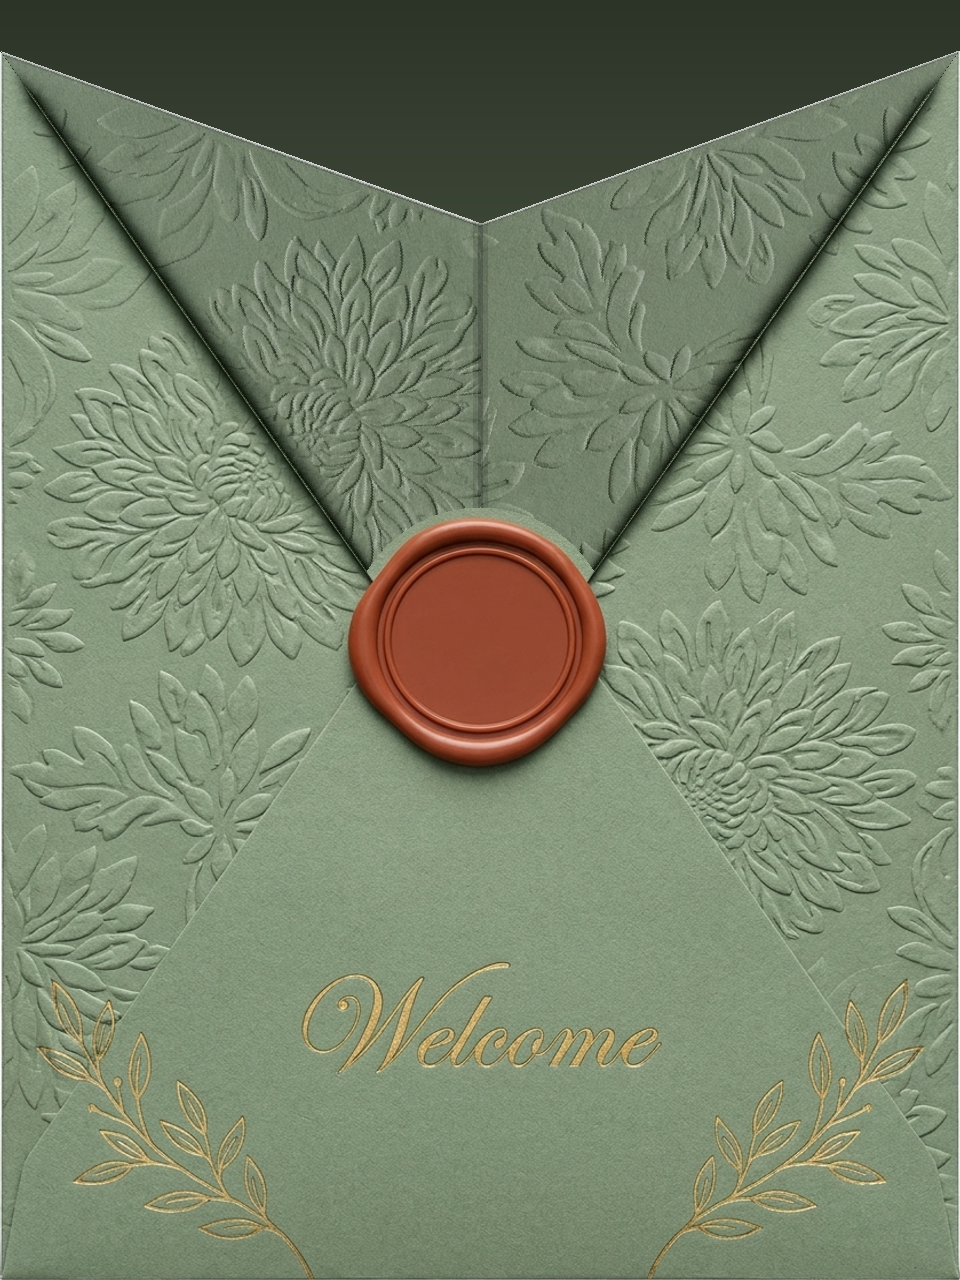
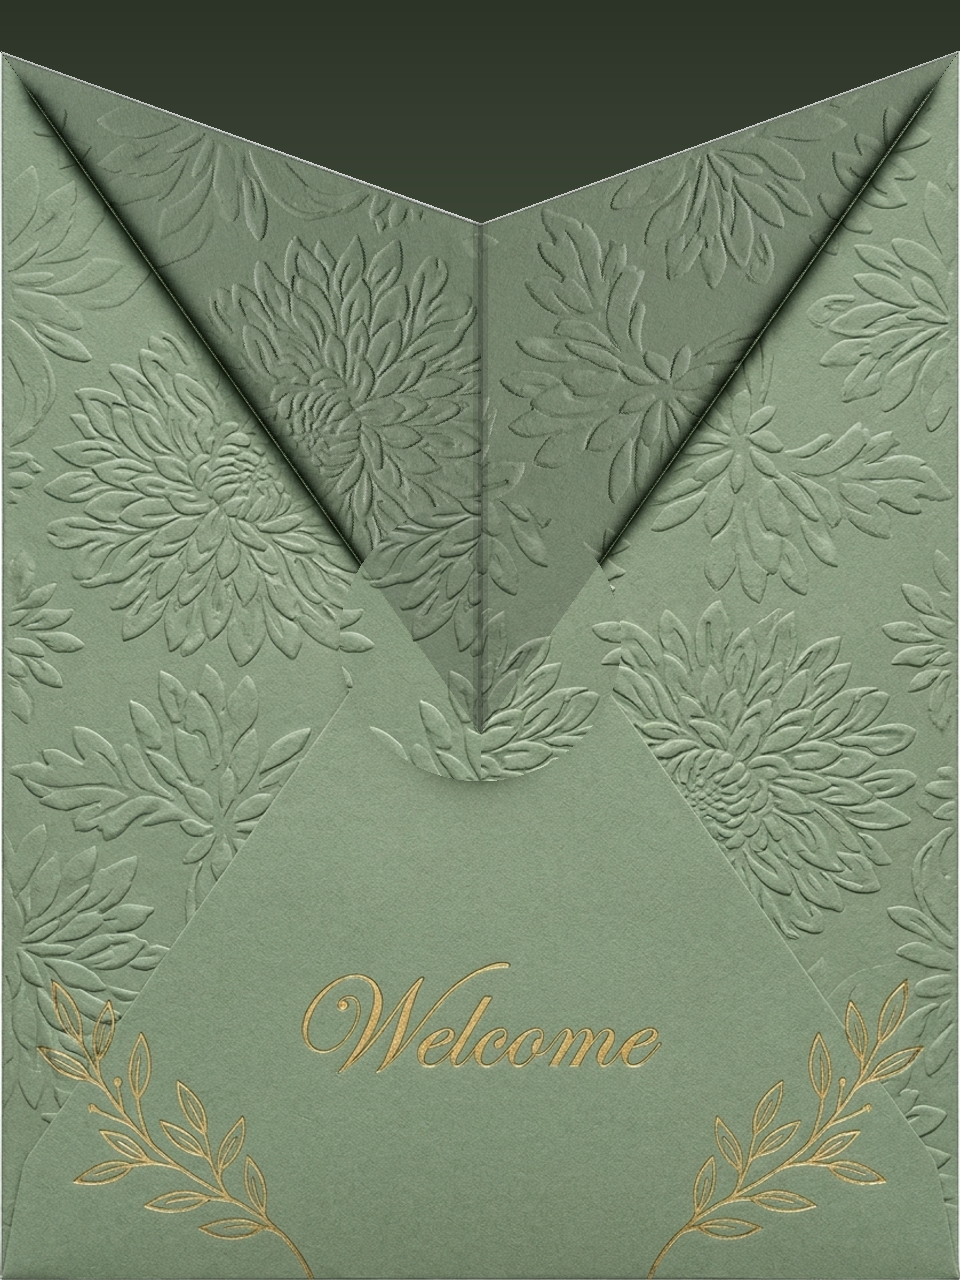
Heritage: flap lifts WITH the seal, clean pocket beneath
Per user request the physical model flips back: the wax rides the
rotating flap (triangle + full feathered wax disc in the top piece,
seal overlay + monogram restored inside the rotating layer with the
face filter). To keep the opening distortion-free the pocket is now
completely wax-free: the disc region is inpainted with real paper
sampled 290px to the side, the mouth keeps the mirrored side-flap
fill (center junction, interior shading, dark-green fallback), and
reflected samples that would land in the old wax area re-route to
clean paper.

Verified frame-by-frame with the dev-slowed 40s opening: closed,
early lift (seal visibly riding the flap), and fully-open pocket are
all clean - no double seal, no wax remnant, no black void. Timing
restored to 3.5s.

Changed region(s): [[0.3438, 0.375, 0.6562, 0.625]]

diff --git a/components/heritage/HeritageApp.jsx b/components/heritage/HeritageApp.jsx
@@ -665,21 +665,14 @@ function HeritageIntro({ ui, opened, onOpen, onGone, initials }) {
               }}
             />
 
-            {/* no seal here anymore — the wax stays glued to the pocket
-                (physical model: the flap tears away from UNDER the wax);
-                the static overlay lives outside this rotating layer */}
-          </motion.div>
-        )}
-
-        {/* wax seal — STATIC overlay above flap and pocket alike: closed
-            it completes the sealed look over the flap tip; while opening
-            the flap slides out from under it and the pocket's baked disc
-            (same pixels, same spot) grounds it — one seal, always.
-              wax-seal-positioner ← centering ONLY
-                └── wax-seal-animator ← seal-sized surface
-                    ├── heritage2-seal.png (sub-pixel-centered disc)
-                    └── dynamic monogram (flex-centered) */}
-        {scene && (
+            {/* wax seal — rides the flap (baked disc in the flap piece
+                sits directly behind this overlay):
+                  wax-seal-positioner ← centering ONLY
+                    └── wax-seal-animator ← seal-sized surface, carries
+                        the face filter so it dims with the flap
+                        ├── heritage2-seal.png (sub-pixel-centered disc)
+                        └── dynamic monogram (flex-centered) */}
+              {scene && (
                 <div
                   aria-hidden
                   className="wax-seal-positioner pointer-events-none absolute left-0 right-0 flex items-center justify-center"
@@ -689,13 +682,15 @@ function HeritageIntro({ ui, opened, onOpen, onGone, initials }) {
                     backfaceVisibility: "hidden",
                   }}
                 >
-                  <div
+                  <motion.div
                     className="wax-seal-animator relative flex items-center justify-center"
                     style={{
                       width: scene.sealD,
                       height: scene.sealD,
+                      filter: faceFilter,
                       backfaceVisibility: "hidden",
                       transform: "translateZ(0)",
+                      willChange: "filter",
                     }}
                   >
                     <img
@@ -761,8 +756,10 @@ function HeritageIntro({ ui, opened, onOpen, onGone, initials }) {
                   </svg>
                       </div>
                     )}
-                  </div>
+                  </motion.div>
                 </div>
+              )}
+          </motion.div>
         )}
       </motion.div>
 